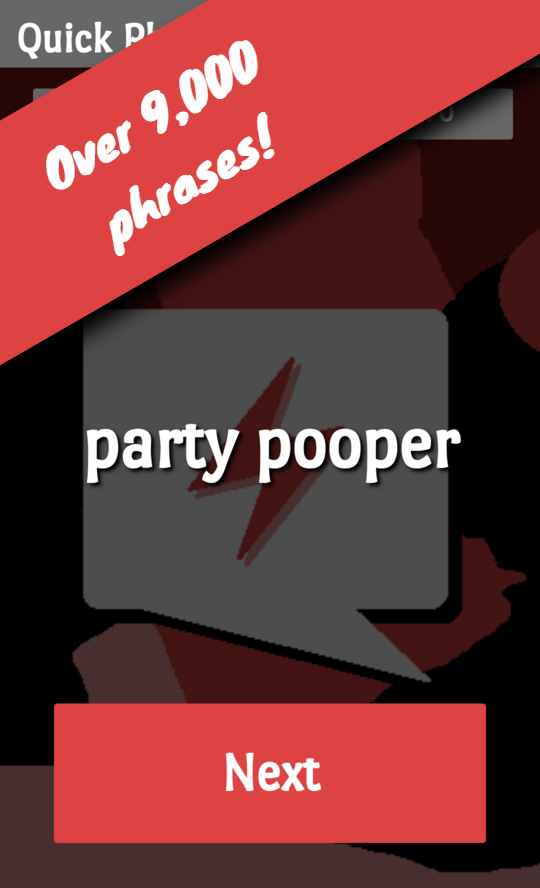
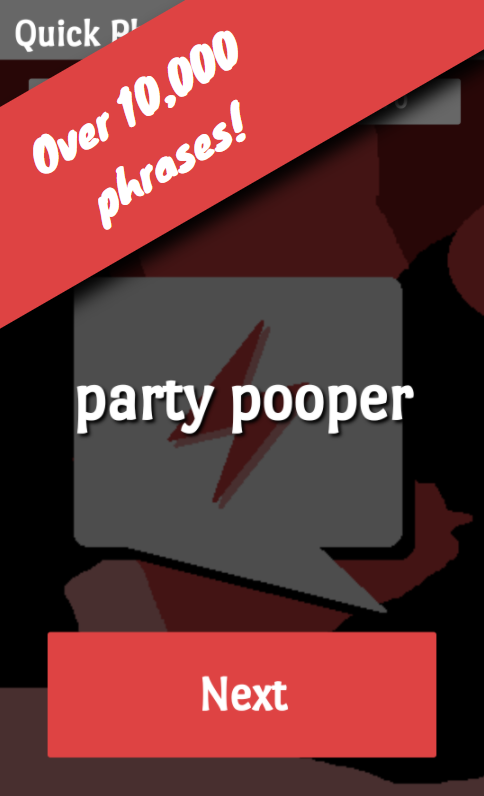
Use web font for bannerizer.

diff --git a/Graphics/bannerizer.html b/Graphics/bannerizer.html
@@ -1,10 +1,11 @@
 <html>
 	<head>
+		<link href="https://fonts.googleapis.com/css?family=Knewave" rel="stylesheet">
 		<style>
 			#screenshot {
 				width: 540px;
 				height: 888px;
-				background: url('screenshot.base/screenshot8.png');
+				background: url('screenshot.base/screenshot1.png');
 				background-size: 540px 888px;
 			}
 			
@@ -19,14 +20,13 @@
 				background-color: #DE4343;
 				color: white;
 				padding: 32px 256px;
-				/*font-family: 'Port Lligat Sans';*/
-				font-family: 'Knewave';
+				font-family: 'Knewave', cursive;
 				box-shadow: 32px 16px 32px black;
 			}
 		</style>
 	</head>
 	<body>
 		<div id="screenshot"></div>
-		<div id="banner">More ways to play!</div>
+		<div id="banner">Over 10,000 phrases!</div>
 	</body>
 </html>
